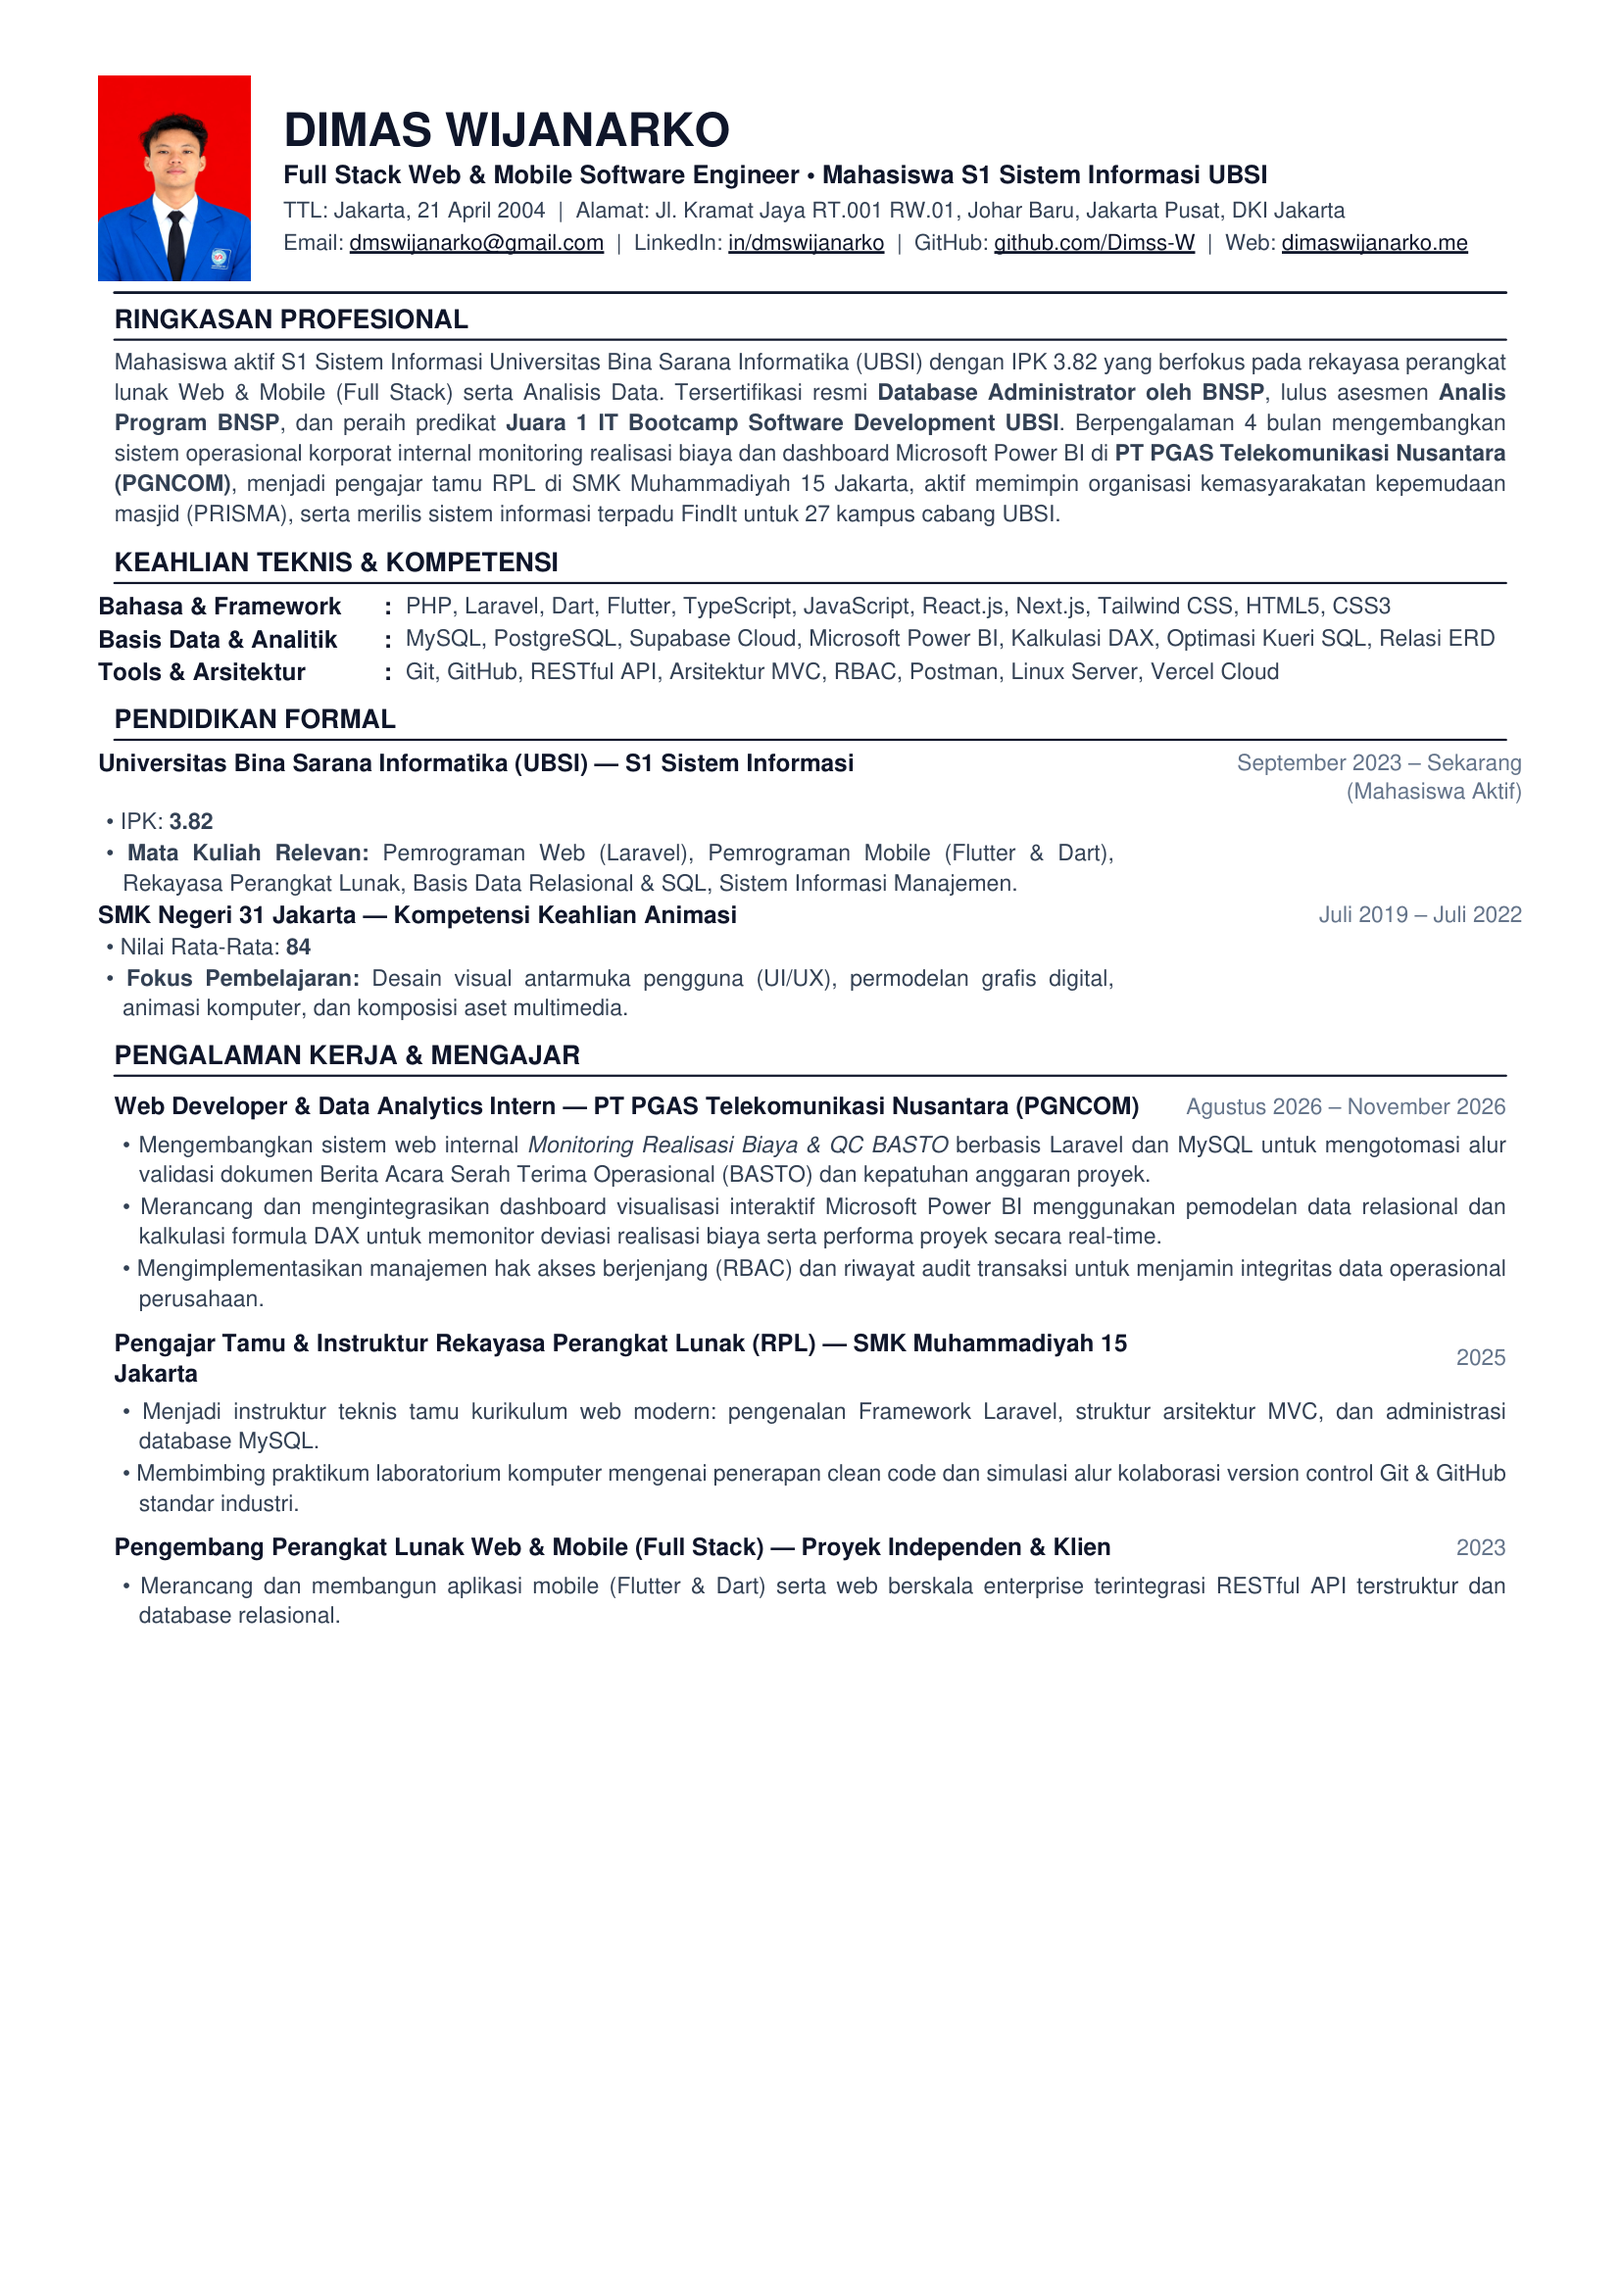
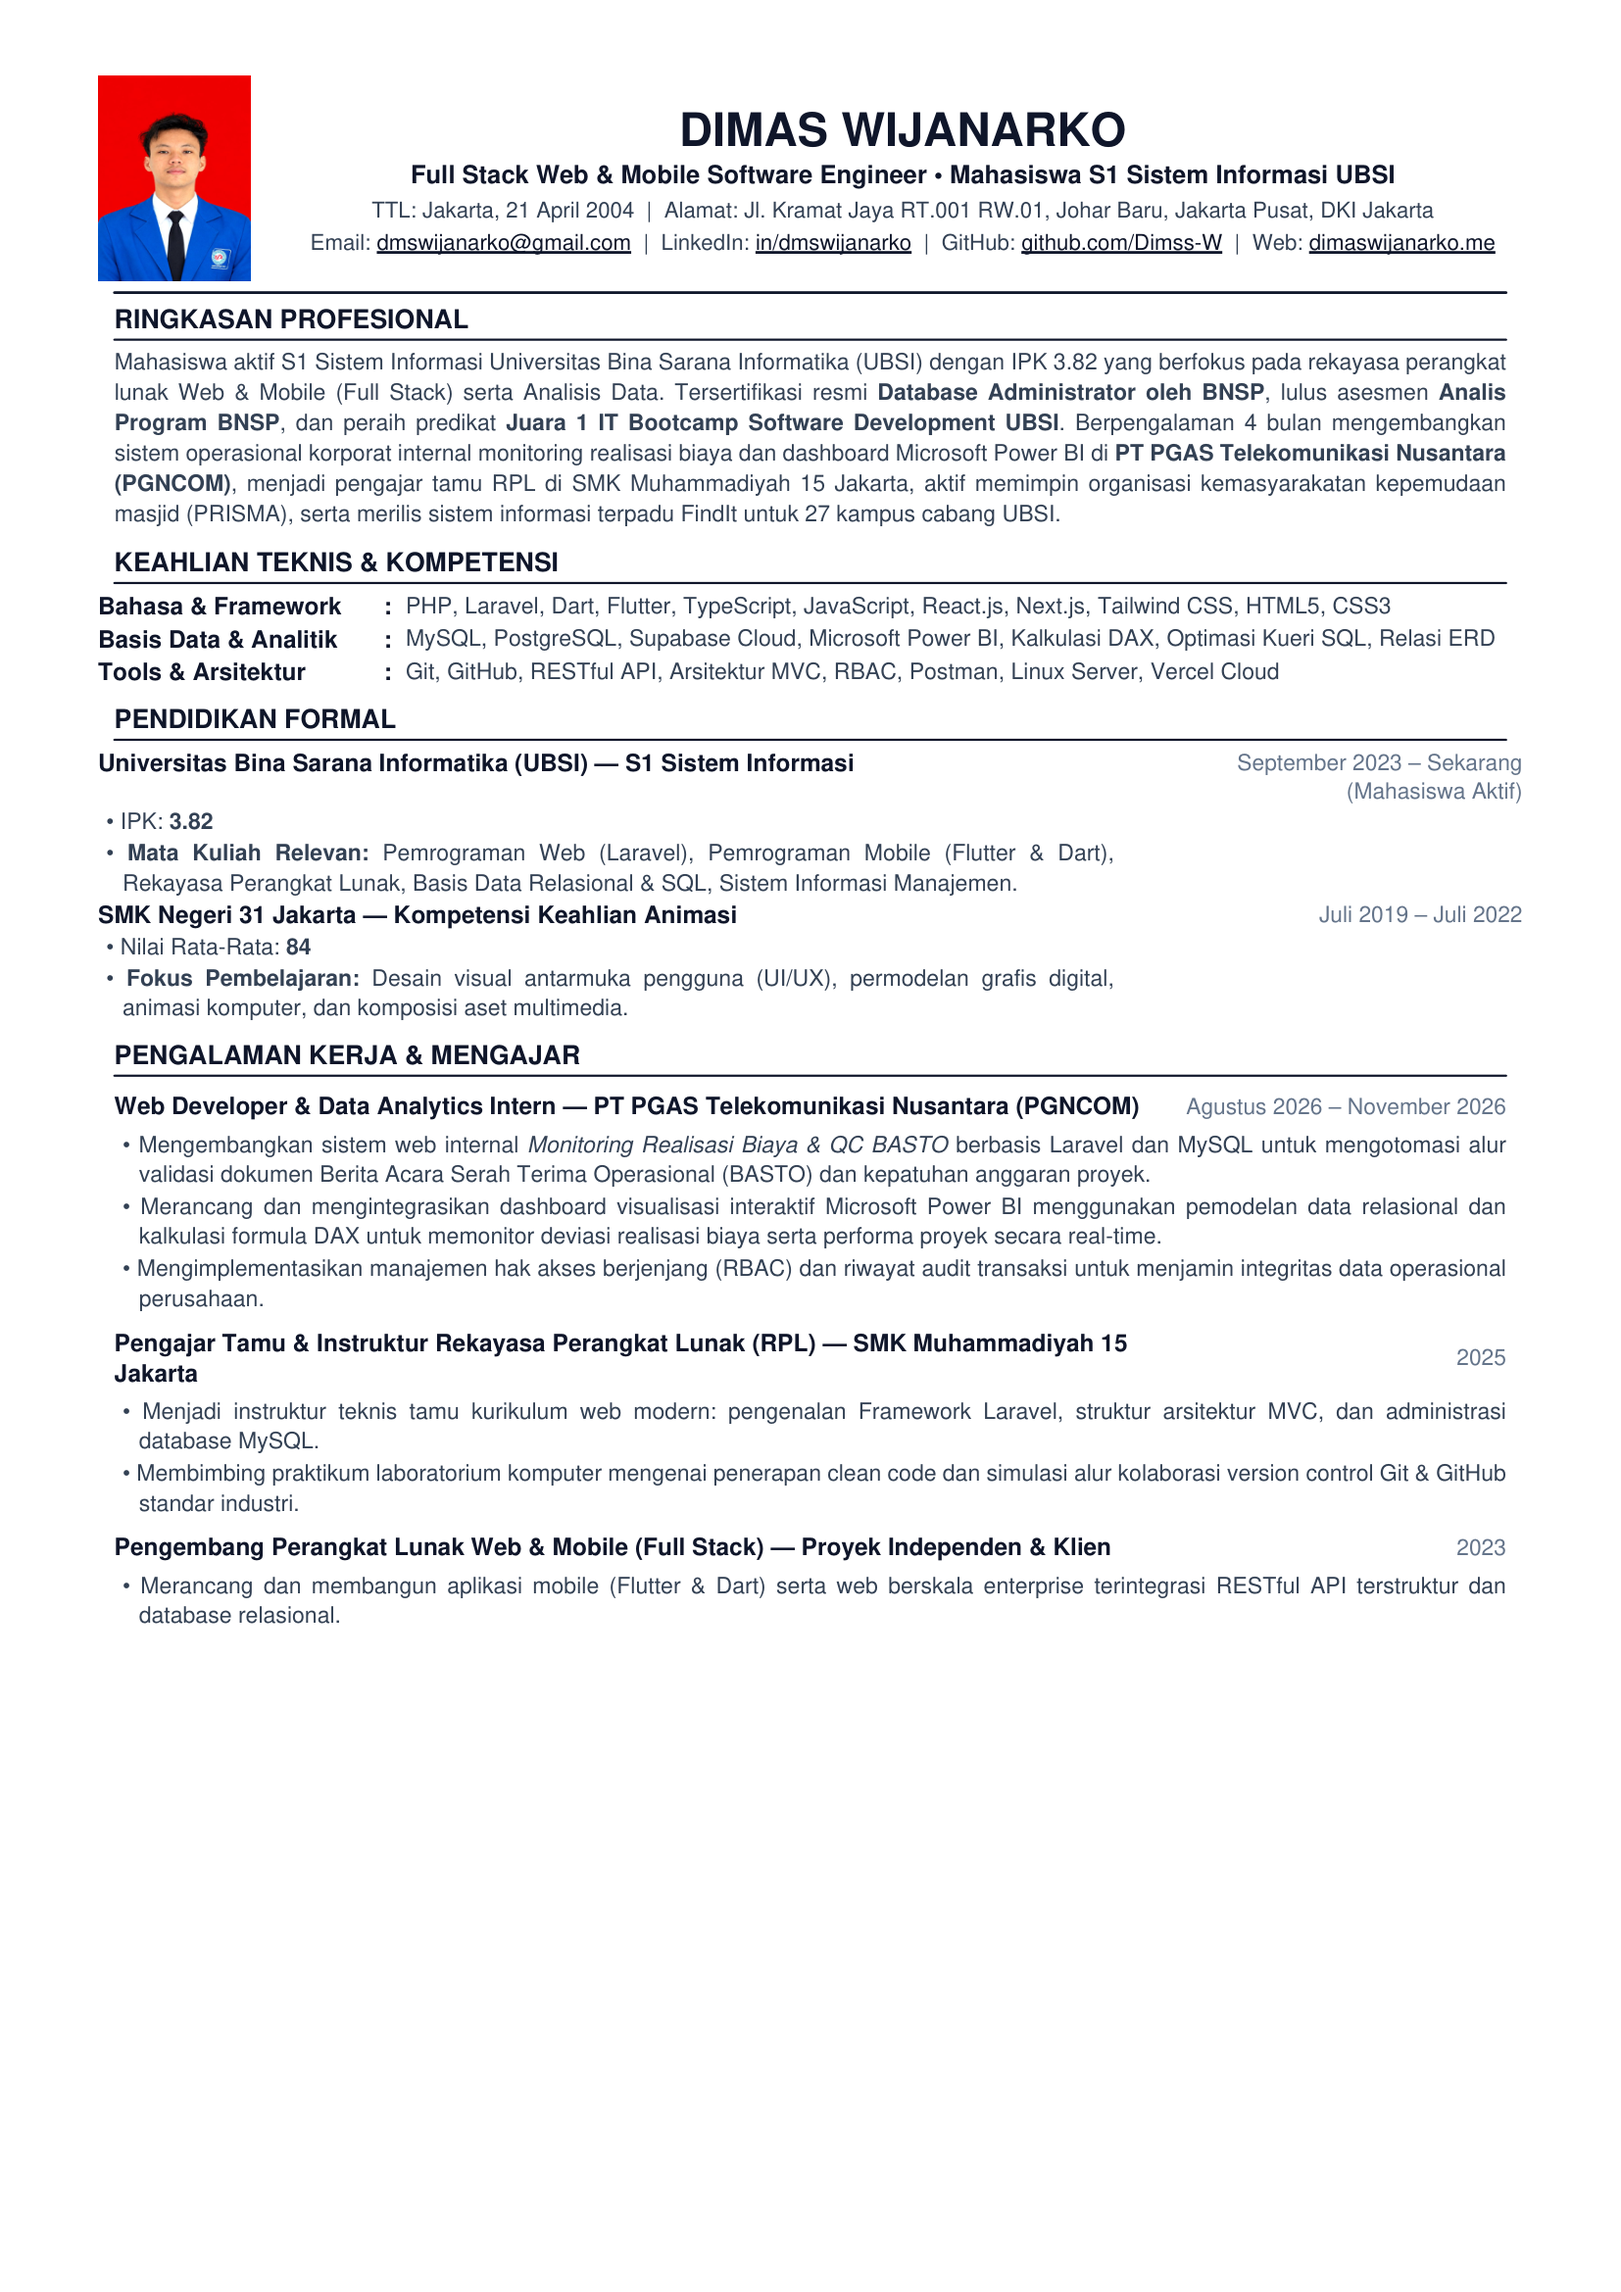
style(cv): set header text to center alignment while keeping photo on left

Changed region(s): [[0.185, 0.0312, 0.925, 0.1248]]

diff --git a/generate_docx_cv.py b/generate_docx_cv.py
@@ -84,9 +84,9 @@ def build_docx_cv(dest_paths):
     if os.path.exists(passport_img_path):
         p_photo.add_run().add_picture(passport_img_path, width=Inches(0.92), height=Inches(1.23))
 
-    # 2. Teks di Kolom Kanan (Rata Kiri, Naik ke Atas Sejajar Foto)
+    # 2. Teks di Kolom Kanan (Rata Tengah, Naik ke Atas Sejajar Foto)
     p_name = cell_text.paragraphs[0]
-    p_name.paragraph_format.alignment = WD_ALIGN_PARAGRAPH.LEFT
+    p_name.paragraph_format.alignment = WD_ALIGN_PARAGRAPH.CENTER
     p_name.paragraph_format.space_before = Pt(0)
     p_name.paragraph_format.space_after = Pt(1.5)
     r_name = p_name.add_run("DIMAS WIJANARKO")
@@ -96,7 +96,7 @@ def build_docx_cv(dest_paths):
     r_name.font.color.rgb = c_primary
 
     p_title = cell_text.add_paragraph()
-    p_title.paragraph_format.alignment = WD_ALIGN_PARAGRAPH.LEFT
+    p_title.paragraph_format.alignment = WD_ALIGN_PARAGRAPH.CENTER
     p_title.paragraph_format.space_before = Pt(0)
     p_title.paragraph_format.space_after = Pt(1.5)
     r_title = p_title.add_run("Full Stack Web & Mobile Software Engineer • Mahasiswa S1 Sistem Informasi UBSI")
@@ -106,7 +106,7 @@ def build_docx_cv(dest_paths):
     r_title.font.color.rgb = c_primary
 
     p_addr = cell_text.add_paragraph()
-    p_addr.paragraph_format.alignment = WD_ALIGN_PARAGRAPH.LEFT
+    p_addr.paragraph_format.alignment = WD_ALIGN_PARAGRAPH.CENTER
     p_addr.paragraph_format.space_before = Pt(0)
     p_addr.paragraph_format.space_after = Pt(1.5)
     r_addr = p_addr.add_run("TTL: Jakarta, 21 April 2004  |  Alamat: Jl. Kramat Jaya RT.001 RW.01, Johar Baru, Jakarta Pusat, DKI Jakarta")
@@ -115,7 +115,7 @@ def build_docx_cv(dest_paths):
     r_addr.font.color.rgb = c_body
 
     p_contact = cell_text.add_paragraph()
-    p_contact.paragraph_format.alignment = WD_ALIGN_PARAGRAPH.LEFT
+    p_contact.paragraph_format.alignment = WD_ALIGN_PARAGRAPH.CENTER
     p_contact.paragraph_format.space_before = Pt(0)
     p_contact.paragraph_format.space_after = Pt(0)
     

diff --git a/generate_1page_cv.py b/generate_1page_cv.py
@@ -31,37 +31,37 @@ def build_ats_cv(output_path):
     c_body = colors.HexColor("#334155")        # Slate 700
     c_muted = colors.HexColor("#64748b")       # Slate 500
 
-    # Header Styles (LEFT ALIGNED NEXT TO PHOTO)
+    # Header Styles (CENTERED NEXT TO PHOTO)
     name_style = ParagraphStyle(
-        'DocNameLeft',
+        'DocNameCenter',
         parent=styles['Normal'],
         fontName='Helvetica-Bold',
         fontSize=17,
         leading=20,
         textColor=c_primary,
-        alignment=TA_LEFT,
+        alignment=TA_CENTER,
         spaceAfter=1.5,
     )
 
     title_style = ParagraphStyle(
-        'DocTitleLeft',
+        'DocTitleCenter',
         parent=styles['Normal'],
         fontName='Helvetica-Bold',
         fontSize=9.2,
         leading=11.5,
         textColor=c_primary,
-        alignment=TA_LEFT,
+        alignment=TA_CENTER,
         spaceAfter=2.0,
     )
 
     contact_style = ParagraphStyle(
-        'DocContactLeft',
+        'DocContactCenter',
         parent=styles['Normal'],
         fontName='Helvetica',
         fontSize=8.0,
         leading=10.5,
         textColor=c_body,
-        alignment=TA_LEFT,
+        alignment=TA_CENTER,
         spaceAfter=1.5,
     )
 

diff --git a/generate_ats_cv.py b/generate_ats_cv.py
@@ -33,37 +33,37 @@ def build_ats_cv(output_path):
     c_body = colors.HexColor("#334155")        # Slate 700
     c_muted = colors.HexColor("#64748b")       # Slate 500
 
-    # Header Styles (LEFT ALIGNED NEXT TO PHOTO)
+    # Header Styles (CENTERED NEXT TO PHOTO)
     name_style = ParagraphStyle(
-        'DocNameLeft',
+        'DocNameCenter',
         parent=styles['Normal'],
         fontName='Helvetica-Bold',
         fontSize=17,
         leading=20,
         textColor=c_primary,
-        alignment=TA_LEFT,
+        alignment=TA_CENTER,
         spaceAfter=1.5,
     )
 
     title_style = ParagraphStyle(
-        'DocTitleLeft',
+        'DocTitleCenter',
         parent=styles['Normal'],
         fontName='Helvetica-Bold',
         fontSize=9.2,
         leading=11.5,
         textColor=c_primary,
-        alignment=TA_LEFT,
+        alignment=TA_CENTER,
         spaceAfter=2.0,
     )
 
     contact_style = ParagraphStyle(
-        'DocContactLeft',
+        'DocContactCenter',
         parent=styles['Normal'],
         fontName='Helvetica',
         fontSize=8.0,
         leading=10.5,
         textColor=c_body,
-        alignment=TA_LEFT,
+        alignment=TA_CENTER,
         spaceAfter=1.5,
     )
 
